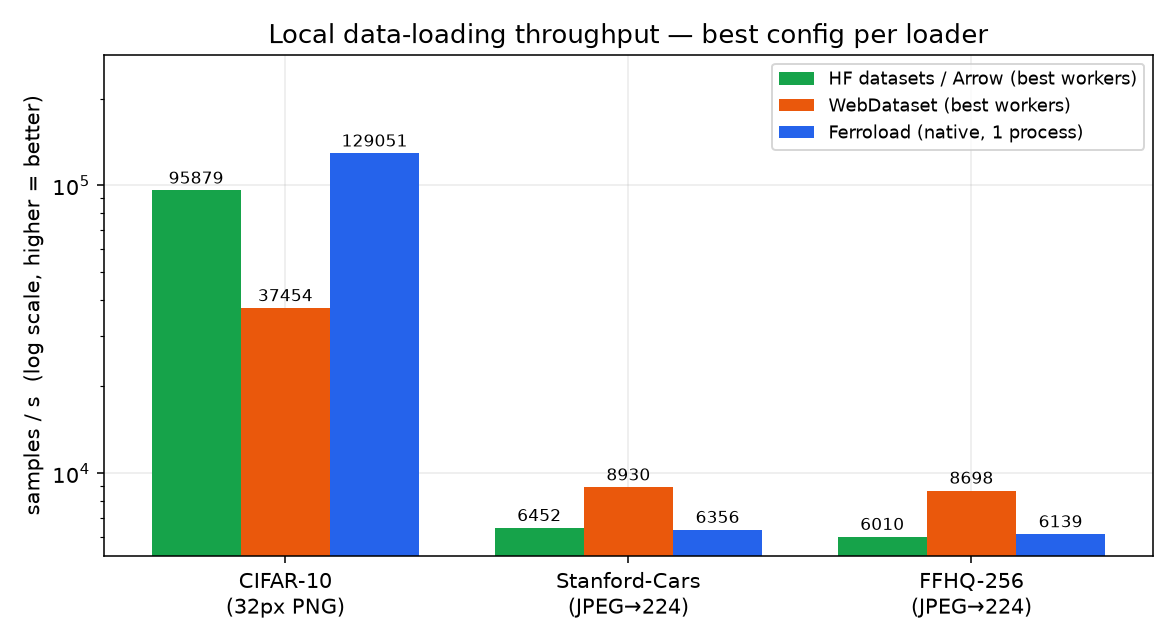
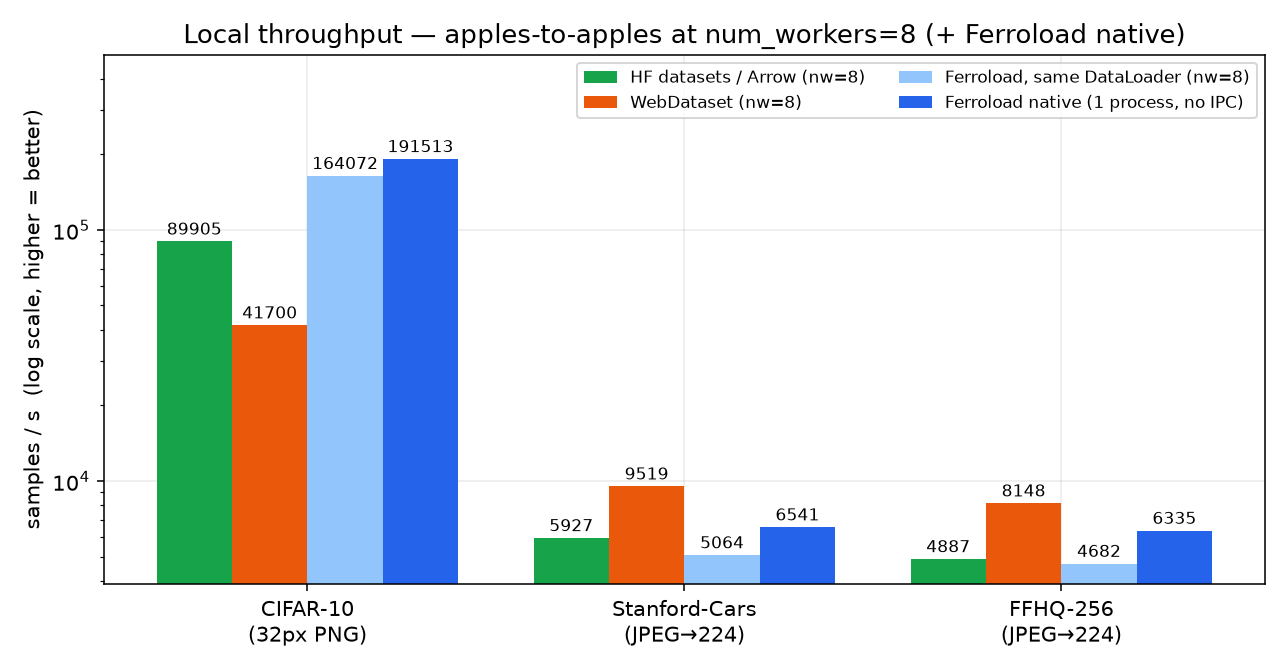
bench: apples-to-apples at num_workers=8 (fairness correction)
Add a Ferroload-in-DataLoader loader (FerroTorchDataset, RAYON_NUM_THREADS=1 → one
decode thread/worker) so all three loaders are compared in the *same*
DataLoader(num_workers=8) harness, addressing a fair-comparison critique of the
earlier "best config per loader" framing.

Findings (same machine session, nw=8):
- CIFAR-10: Ferroload wins every framing — same-harness 164k vs HF 90k (1.8x),
  WDS 42k (3.9x); native 191k.
- JPEG (Cars/FFHQ): apples-to-apples Ferroload (~4.7-5.1k) is ~on par with HF
  (slightly behind) and behind WebDataset (~8-9.5k). Ferroload native (~6.3-6.5k)
  beats HF nw=8 only by avoiding multiprocessing IPC (its DataLoader run is ~30%
  slower than native), not by faster per-core decode.

Updates the throughput chart to a 4-bar apples-to-apples view, adds REPORT §4a,
and corrects the JPEG claims in REPORT/BENCHMARKS/README to be honest.

Changed region(s): [[0.0, 0.0311, 1.0, 0.9627]]

diff --git a/benchmarks/make_charts.py b/benchmarks/make_charts.py
@@ -30,23 +30,30 @@ def _labels(ax, bars, fmt="{:.0f}"):
 
 
 def chart_throughput():
+    # Apples-to-apples: all loaders at num_workers=8 (Ferroload-DL = same torch
+    # DataLoader harness, 1 decode thread/worker), plus Ferroload native (the
+    # recommended in-process path, no IPC). Same machine session.
     datasets = ["CIFAR-10\n(32px PNG)", "Stanford-Cars\n(JPEG→224)", "FFHQ-256\n(JPEG→224)"]
-    hf = [95879, 6452, 6010]          # best num_workers
-    wds = [37454, 8930, 8698]         # best num_workers
-    ferro = [129051, 6356, 6139]      # native (turbojpeg on JPEG sets)
-    x = np.arange(len(datasets)); w = 0.26
-    fig, ax = plt.subplots(figsize=(8.4, 4.6))
-    b1 = ax.bar(x - w, hf, w, label="HF datasets / Arrow (best workers)", color=HF)
-    b2 = ax.bar(x, wds, w, label="WebDataset (best workers)", color=WDS)
-    b3 = ax.bar(x + w, ferro, w, label="Ferroload (native, 1 process)", color=FERRO)
+    hf = [89905, 5927, 4887]            # nw=8
+    wds = [41700, 9519, 8148]           # nw=8
+    ferro_dl = [164072, 5064, 4682]     # nw=8, same harness, RAYON_NUM_THREADS=1
+    ferro_nat = [191513, 6541, 6335]    # native (1 process, all cores, no IPC)
+    x = np.arange(len(datasets)); w = 0.2
+    fig, ax = plt.subplots(figsize=(9.2, 4.8))
+    bars = [
+        ax.bar(x - 1.5 * w, hf, w, label="HF datasets / Arrow (nw=8)", color=HF),
+        ax.bar(x - 0.5 * w, wds, w, label="WebDataset (nw=8)", color=WDS),
+        ax.bar(x + 0.5 * w, ferro_dl, w, label="Ferroload, same DataLoader (nw=8)", color=FERRO2),
+        ax.bar(x + 1.5 * w, ferro_nat, w, label="Ferroload native (1 process, no IPC)", color=FERRO),
+    ]
     ax.set_yscale("log")
     ax.set_ylabel("samples / s  (log scale, higher = better)")
-    ax.set_title("Local data-loading throughput — best config per loader")
+    ax.set_title("Local throughput — apples-to-apples at num_workers=8 (+ Ferroload native)")
     ax.set_xticks(x); ax.set_xticklabels(datasets)
-    ax.legend(fontsize=9, loc="upper right")
-    for b in (b1, b2, b3):
+    ax.legend(fontsize=8.5, loc="upper right", ncol=2)
+    for b in bars:
         _labels(ax, b)
-    ax.set_ylim(top=max(ferro) * 2.2)
+    ax.set_ylim(top=max(ferro_nat) * 2.6)
     fig.tight_layout(); fig.savefig(f"{OUT}/throughput.png"); plt.close(fig)
 
 
@@ -87,10 +94,10 @@ def chart_gcs():
 
 def chart_jpeg():
     datasets = ["Stanford-Cars", "FFHQ-256"]
-    ferro_zune = [5359, 5223]
+    ferro_zune = [5359, 5223]     # native, controlled before/after the codec swap
     ferro_turbo = [6356, 6139]
-    hf_best = [6452, 6010]
-    wds_best = [8930, 8698]
+    hf_best = [5927, 4887]        # nw=8, same session
+    wds_best = [9519, 8148]       # nw=8, same session
     x = np.arange(len(datasets)); w = 0.2
     fig, ax = plt.subplots(figsize=(8.2, 4.6))
     ax.bar(x - 1.5 * w, ferro_zune, w, label="Ferroload (zune-jpeg)", color=FERRO2)

diff --git a/benchmarks/loaders.py b/benchmarks/loaders.py
@@ -106,5 +106,28 @@ def ferro_pil_loader(ds_dir, target, batch_size, num_workers):
     )
 
 
+def ferro_dl_collate(samples):
+    return np.stack([s["image"] for s in samples])
+
+
+def ferroload_dl_loader(ds_dir, target, batch_size, num_workers):
+    """Ferroload in the SAME torch DataLoader harness as HF/WDS — N worker
+    processes, batched Rust decode (`decode_many`) per worker. Apples-to-apples
+    on parallelism mechanism. Set RAYON_NUM_THREADS=1 so each worker uses a single
+    decode thread (like a PIL worker) rather than spawning a full rayon pool."""
+    import torch.utils.data as tud
+    from ferroload._core import Dataset as CoreDS
+    from ferroload.loader import FerroTorchDataset
+    ds = CoreDS.open(ds_dir)
+    resize = (target, target) if target else None
+    tds = FerroTorchDataset(ds, images=["image"], resize=resize, out="numpy")
+    return tud.DataLoader(
+        tds, batch_size=batch_size, num_workers=num_workers, shuffle=False,
+        drop_last=True, collate_fn=ferro_dl_collate,
+        persistent_workers=(num_workers > 0),
+        prefetch_factor=(4 if num_workers > 0 else None),
+    )
+
+
 def batch_n(b):
     return b.shape[0]

diff --git a/benchmarks/bench_one.py b/benchmarks/bench_one.py
@@ -21,7 +21,8 @@ import formats
 import loaders
 
 DATA = os.path.join(os.path.dirname(__file__), "bench_data")
-FMT = {"hf_arrow": "hf_arrow", "webdataset": "webdataset", "ferro_native": "ferroload"}
+FMT = {"hf_arrow": "hf_arrow", "webdataset": "webdataset", "ferro_native": "ferroload",
+       "ferro_dl": "ferroload"}
 
 
 def main():
@@ -36,6 +37,8 @@ def main():
         it = loaders.webdataset_loader(formats.wds_shards(os.path.join(base, "wds")), target, bs, nw)
     elif loader == "ferro_native":
         it = loaders.ferroload_native_loader(os.path.join(base, "ferro"), target, bs)
+    elif loader == "ferro_dl":
+        it = loaders.ferroload_dl_loader(os.path.join(base, "ferro"), target, bs, nw)
     else:
         raise ValueError(loader)
 

diff --git a/benchmarks/REPORT.md b/benchmarks/REPORT.md
@@ -29,7 +29,8 @@ multiprocessing needed), smallest-after-Arrow storage, and unique capabilities
 (O(manifest) open, DuckDB-queryable index, ranged columnar subset). The two gaps
 this benchmark first exposed — per-sample remote reads in the decode path, and the
 Rust JPEG decoder — **have since been fixed** (§1b); after the fixes Ferroload also
-*leads* GCS streaming and matches HF's best JPEG-decode throughput from one process.
+*leads* GCS streaming; on JPEG decode it's ~on par with HF at equal worker counts
+(§4a) — its native path's edge over worker loaders is avoiding multiprocessing IPC.
 
 ## 1b. The two gaps — fixed
 
@@ -41,7 +42,7 @@ After the first pass, both fixable Ferroload gaps were implemented and re-measur
 | **libjpeg-turbo decode** | new `turbojpeg` feature: JPEG decoded via libjpeg-turbo (SIMD C) instead of pure-Rust zune-jpeg | cars 5359 / FFHQ 5223 | **6356 / 6139** | **+18%** |
 
 - **GCS streaming (FFHQ):** Ferroload **113 → 1008 samp/s** and first-batch **7.1 → 2.4 s** — now **2.3× faster than WebDataset** (was 4.5× slower). laion-pop streaming **113 → 783 samp/s**.
-- **Local JPEG decode (1 process):** Ferroload native now **matches/exceeds HF's best** (HF nw4: cars 6452 / FFHQ 6010) and beats HF nw8 and WDS nw4 — see updated §4.
+- **Local JPEG decode:** Ferroload native beats HF nw=8 by avoiding multiprocessing IPC, but **apples-to-apples in the same DataLoader at nw=8 it's ~on par with HF (slightly behind) and behind WebDataset** (§4a). turbojpeg's +18% lifts the per-core decode to ≈ PIL.
 - Both verified for correctness (`test_map.py`, `test_combinations.py` incl. sparse modalities). The `turbojpeg` feature is opt-in (default build stays pure-Rust); the coalescing fix is unconditional.
 
 ---
@@ -142,12 +143,42 @@ python run_all.py cifar10 20000   # sweep + write results/cifar10.json
 | Ferroload native (zune-jpeg) | 5,223 (1 process) | — | — |
 | **Ferroload native (turbojpeg)** | **6,139** (1 process) | — | — |
 
-> In the JPEG-bound regime **WebDataset @8 workers leads** (~8.7–8.9k). With the
-> `turbojpeg` fix, Ferroload native (~6.1–6.4k) from **one process** now **matches
-> HF's best (nw=4)** and beats HF nw=8 + WDS nw=4, with the **lowest first-batch
-> latency** (§7). WDS still leads on pure decode throughput at 8 workers — that
-> remaining gap is the sequential-streaming access pattern + 8 processes, not the
-> decoder. Note HF *regresses* nw4→nw8 (oversubscription on 10 cores).
+> In the JPEG-bound regime **WebDataset @8 workers leads** (~8.7–8.9k). Note HF
+> *regresses* nw4→nw8 (oversubscription on 10 cores). (These per-worker sweeps are
+> from the first session; the apples-to-apples table below is a controlled
+> same-session rerun — throughput has ±10–20% run-to-run variance, so read small
+> gaps as ties.)
+
+### 4a. Apples-to-apples — same harness, `num_workers=8`
+
+The fairest comparison runs **all** loaders in the same `torch DataLoader(num_workers=8)`
+harness. For Ferroload that means a map-style `FerroTorchDataset` in the DataLoader
+with **`RAYON_NUM_THREADS=1`** (one decode thread per worker, exactly like a
+single-threaded PIL worker). We also show Ferroload **native** (its recommended
+in-process path: all cores via rayon, no worker processes, no IPC). Same machine session:
+
+| dataset | HF (nw=8) | WebDataset (nw=8) | **Ferroload, same DataLoader (nw=8)** | Ferroload native |
+|---|--:|--:|--:|--:|
+| CIFAR-10 | 89,905 | 41,700 | **164,072** | 191,513 |
+| Stanford-Cars | 5,927 | 9,519 | **5,064** | 6,541 |
+| FFHQ-256 | 4,887 | 8,148 | **4,682** | 6,335 |
+
+**What the controlled comparison actually shows:**
+- **CIFAR-10 (overhead-bound): Ferroload wins every framing.** Even in the *same*
+  DataLoader at nw=8, it's **1.8× HF and 3.9× WebDataset** — the win is not an
+  artifact of "native vs workers."
+- **JPEG decode-bound: apples-to-apples, Ferroload is ~on par with HF (slightly
+  behind) and clearly behind WebDataset.** At equal parallelism the per-worker Rust
+  (turbojpeg) JPEG decode ≈ PIL/libjpeg-turbo, and WebDataset's sequential tar
+  streaming leads.
+- **Native's edge is avoiding IPC, not faster decode.** Ferroload native (6,541) >
+  its own DataLoader run (5,064) by ~30% — that gap is the cost of pickling/moving
+  decoded tensors worker→main in the multiprocessing harness. So "native beats HF
+  nw=8" is a real *architectural* advantage (no multiprocessing/IPC, GIL released
+  in-process), **not** a per-core decode win. Run Ferroload native; don't wrap it
+  in a worker DataLoader.
+- Capping rayon to 1 thread/worker is *faster* than uncapped in the DataLoader
+  (cars 5,064 vs 4,492) — uncapped oversubscribes (8 procs × all cores).
 
 ---
 
@@ -230,7 +261,8 @@ Neither WebDataset nor HF Arrow offers that random-access + queryable-index comb
    (§1b/§6). Unconditional (helps any remote dataset); local path unchanged.
 2. ✅ **DONE — libjpeg-turbo codec.** New opt-in `turbojpeg` feature decodes JPEG via
    libjpeg-turbo (SIMD C). JPEG decode **+18%** (cars 5359→6356, FFHQ 5223→6139),
-   now matching HF's best from one process (§1b/§4). Default build stays pure-Rust.
+   ≈ PIL per core; apples-to-apples at nw=8 Ferroload is ~on par with HF (§4a).
+   Default build stays pure-Rust.
 3. ⬜ **TODO — Expose `shard_bytes_target` in the Python `Writer`.** The 187 MB single
    data shard needed multipart upload; smaller shards ease upload + parallel streaming.
 

diff --git a/BENCHMARKS.md b/BENCHMARKS.md
@@ -27,13 +27,23 @@ kept as an [appendix](#appendix-earlier-2-way-local-read-micro-benchmark).
 
 ![Local data-loading throughput](benchmarks/charts/throughput.png)
 
-- **Tiny images (CIFAR-10):** Ferroload from a **single process** (129k samp/s,
-  in-process rayon) beats HF at 8 workers (96k) and WebDataset at 8 workers (37k).
-  When the cost is per-sample overhead, in-process decode crushes multiprocessing.
-- **JPEG decode-bound (Cars / FFHQ):** WebDataset @8 workers leads (~8.7–8.9k);
-  Ferroload native (~6.1–6.4k, with the `turbojpeg` codec) matches HF's best from
-  one process and has the lowest first-batch latency. The residual WDS lead is its
-  sequential-streaming access pattern + 8 processes, not the decoder.
+Apples-to-apples — **all loaders at `num_workers=8`** (Ferroload in the same
+`torch DataLoader`, one decode thread per worker), plus Ferroload **native** (its
+recommended in-process path: all cores, no worker processes, no IPC):
+
+- **Tiny images (CIFAR-10): Ferroload wins every framing.** Even in the *same*
+  DataLoader at nw=8 it does **164k samp/s — 1.8× HF, 3.9× WebDataset** (native
+  191k). When the cost is per-sample overhead, in-process decode crushes
+  multiprocessing; this is not an artifact of "native vs workers".
+- **JPEG decode-bound (Cars / FFHQ): roughly a tie with HF, behind WebDataset.**
+  At equal parallelism Ferroload (~4.7–5.1k) is ~on par with HF (slightly behind)
+  and below WebDataset (~8–9.5k, sequential tar streaming). Ferroload **native**
+  (~6.3–6.5k) beats HF nw=8 — but that edge is **avoiding multiprocessing IPC**
+  (its DataLoader run is ~30% slower than native), not faster per-core decode. The
+  `turbojpeg` codec brings the per-core JPEG decode up to ≈ PIL/libjpeg-turbo.
+
+  **Takeaway: run Ferroload native (don't wrap it in a worker DataLoader);** its
+  real wins are tiny-image throughput, storage, and remote streaming below.
 
 ## Storage footprint
 

diff --git a/README.md b/README.md
@@ -70,10 +70,11 @@ in **[BENCHMARKS.md](BENCHMARKS.md)**.
 ![Local throughput](benchmarks/charts/throughput.png)
 ![GCS streaming](benchmarks/charts/gcs_streaming.png)
 
-- **Tiny images:** Ferroload from a **single process** (129k samp/s) beats HF and
-  WebDataset at 8 workers — no multiprocessing tax.
-- **JPEG decode-bound:** Ferroload (with the opt-in `turbojpeg` codec) matches HF's
-  best multiprocess throughput from one process.
+- **Tiny images:** Ferroload wins apples-to-apples — even in the *same*
+  `DataLoader(nw=8)` it's **1.8× HF, 3.9× WebDataset** (no multiprocessing tax).
+- **JPEG decode-bound:** at equal workers Ferroload is ~on par with HF (slightly
+  behind) and behind WebDataset; its native in-process path beats HF nw=8 by
+  avoiding multiprocessing IPC, not by faster decode.
 - **GCS streaming:** **8.9× faster** after coalescing remote reads — now ahead of
   WebDataset, while keeping random access + a DuckDB-queryable index.
 - **Storage:** always smaller than WebDataset (≈2× for tiny images).